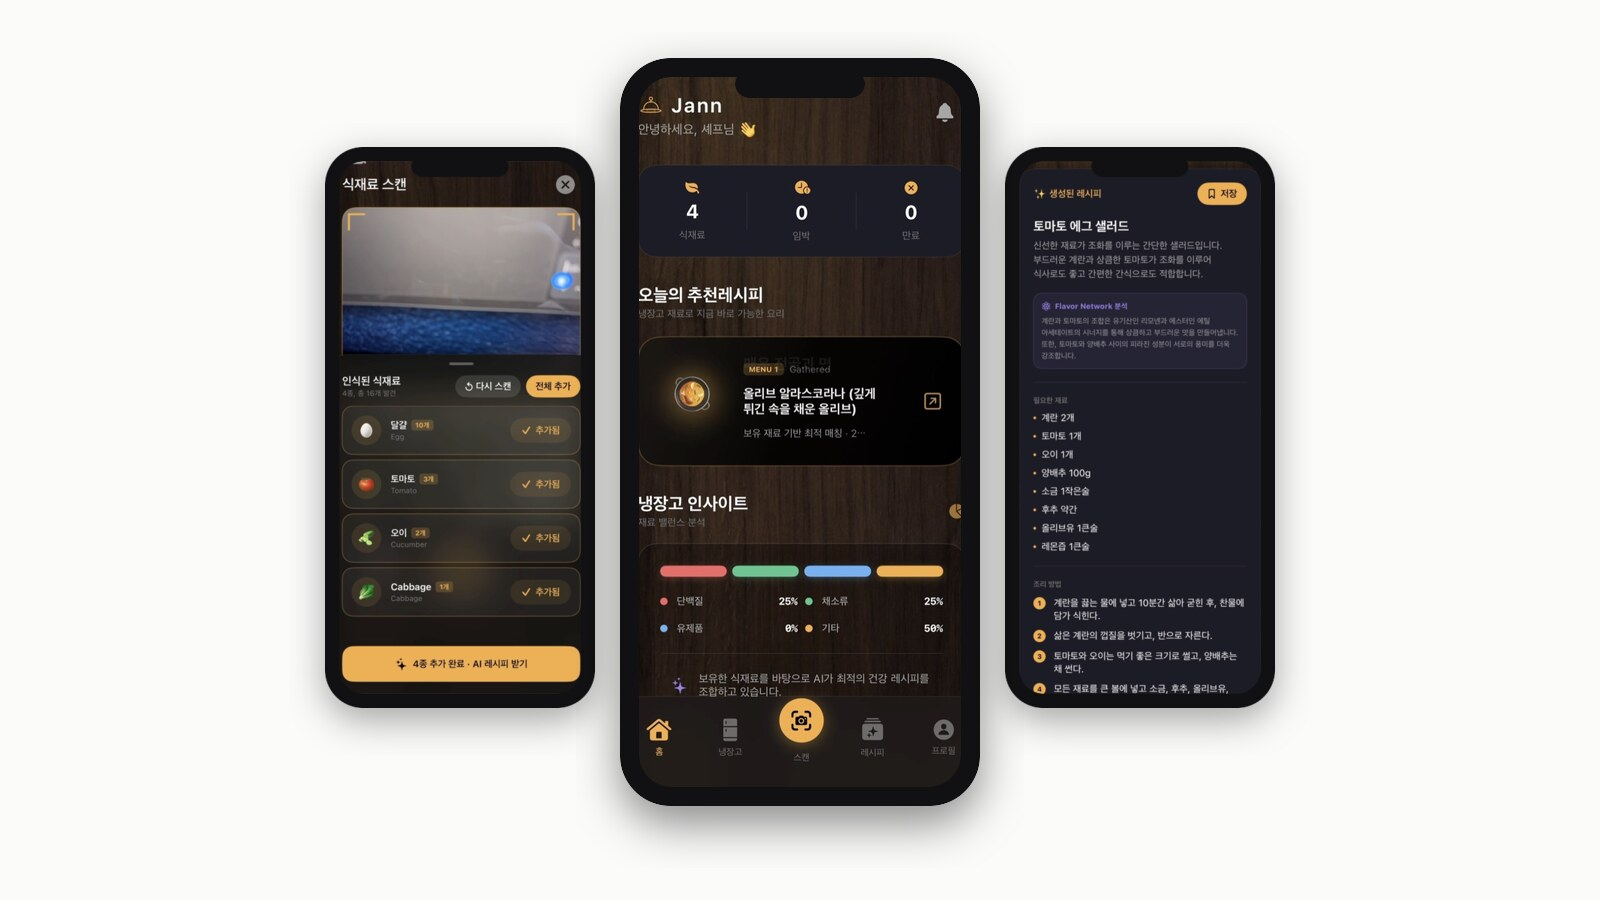
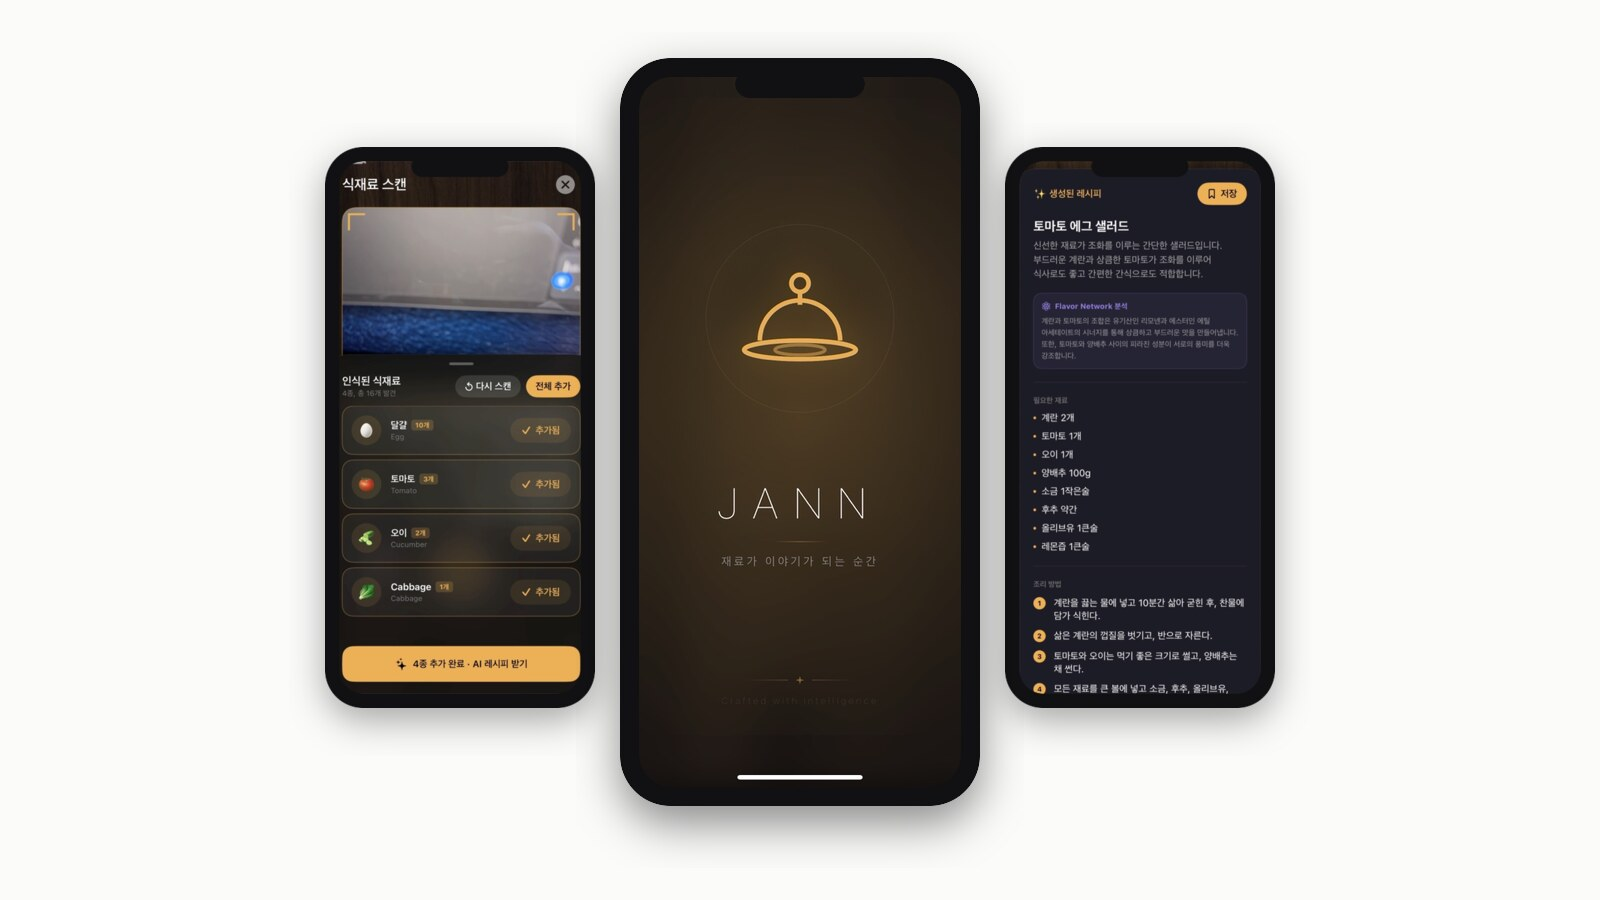
fix(JANN thumb): 가운데 splash(로딩) 재빌드 + ?v=2 cache-bust
이전 푸시 후에도 가운데에 home이 보인다는 사용자 보고 → CDN/브라우저 캐시 의심.
- card-thumb.jpg 재빌드 (좌 scan / 가운데 splash / 우 recipe)
- index.html에서 ?v=2 쿼리스트링으로 강제 리로드

diff --git a/index.html b/index.html
@@ -1316,7 +1316,7 @@ footer .row{
 
       <article class="proj-card">
         <div class="proj-thumb">
-          <img src="jann/img/card-thumb.jpg" alt="JANN iOS 앱 — 스캔·로딩·레시피 화면" loading="lazy">
+          <img src="jann/img/card-thumb.jpg?v=2" alt="JANN iOS 앱 — 스캔·로딩·레시피 화면" loading="lazy">
         </div>
         <div class="proj-body">
           <div class="proj-meta">
